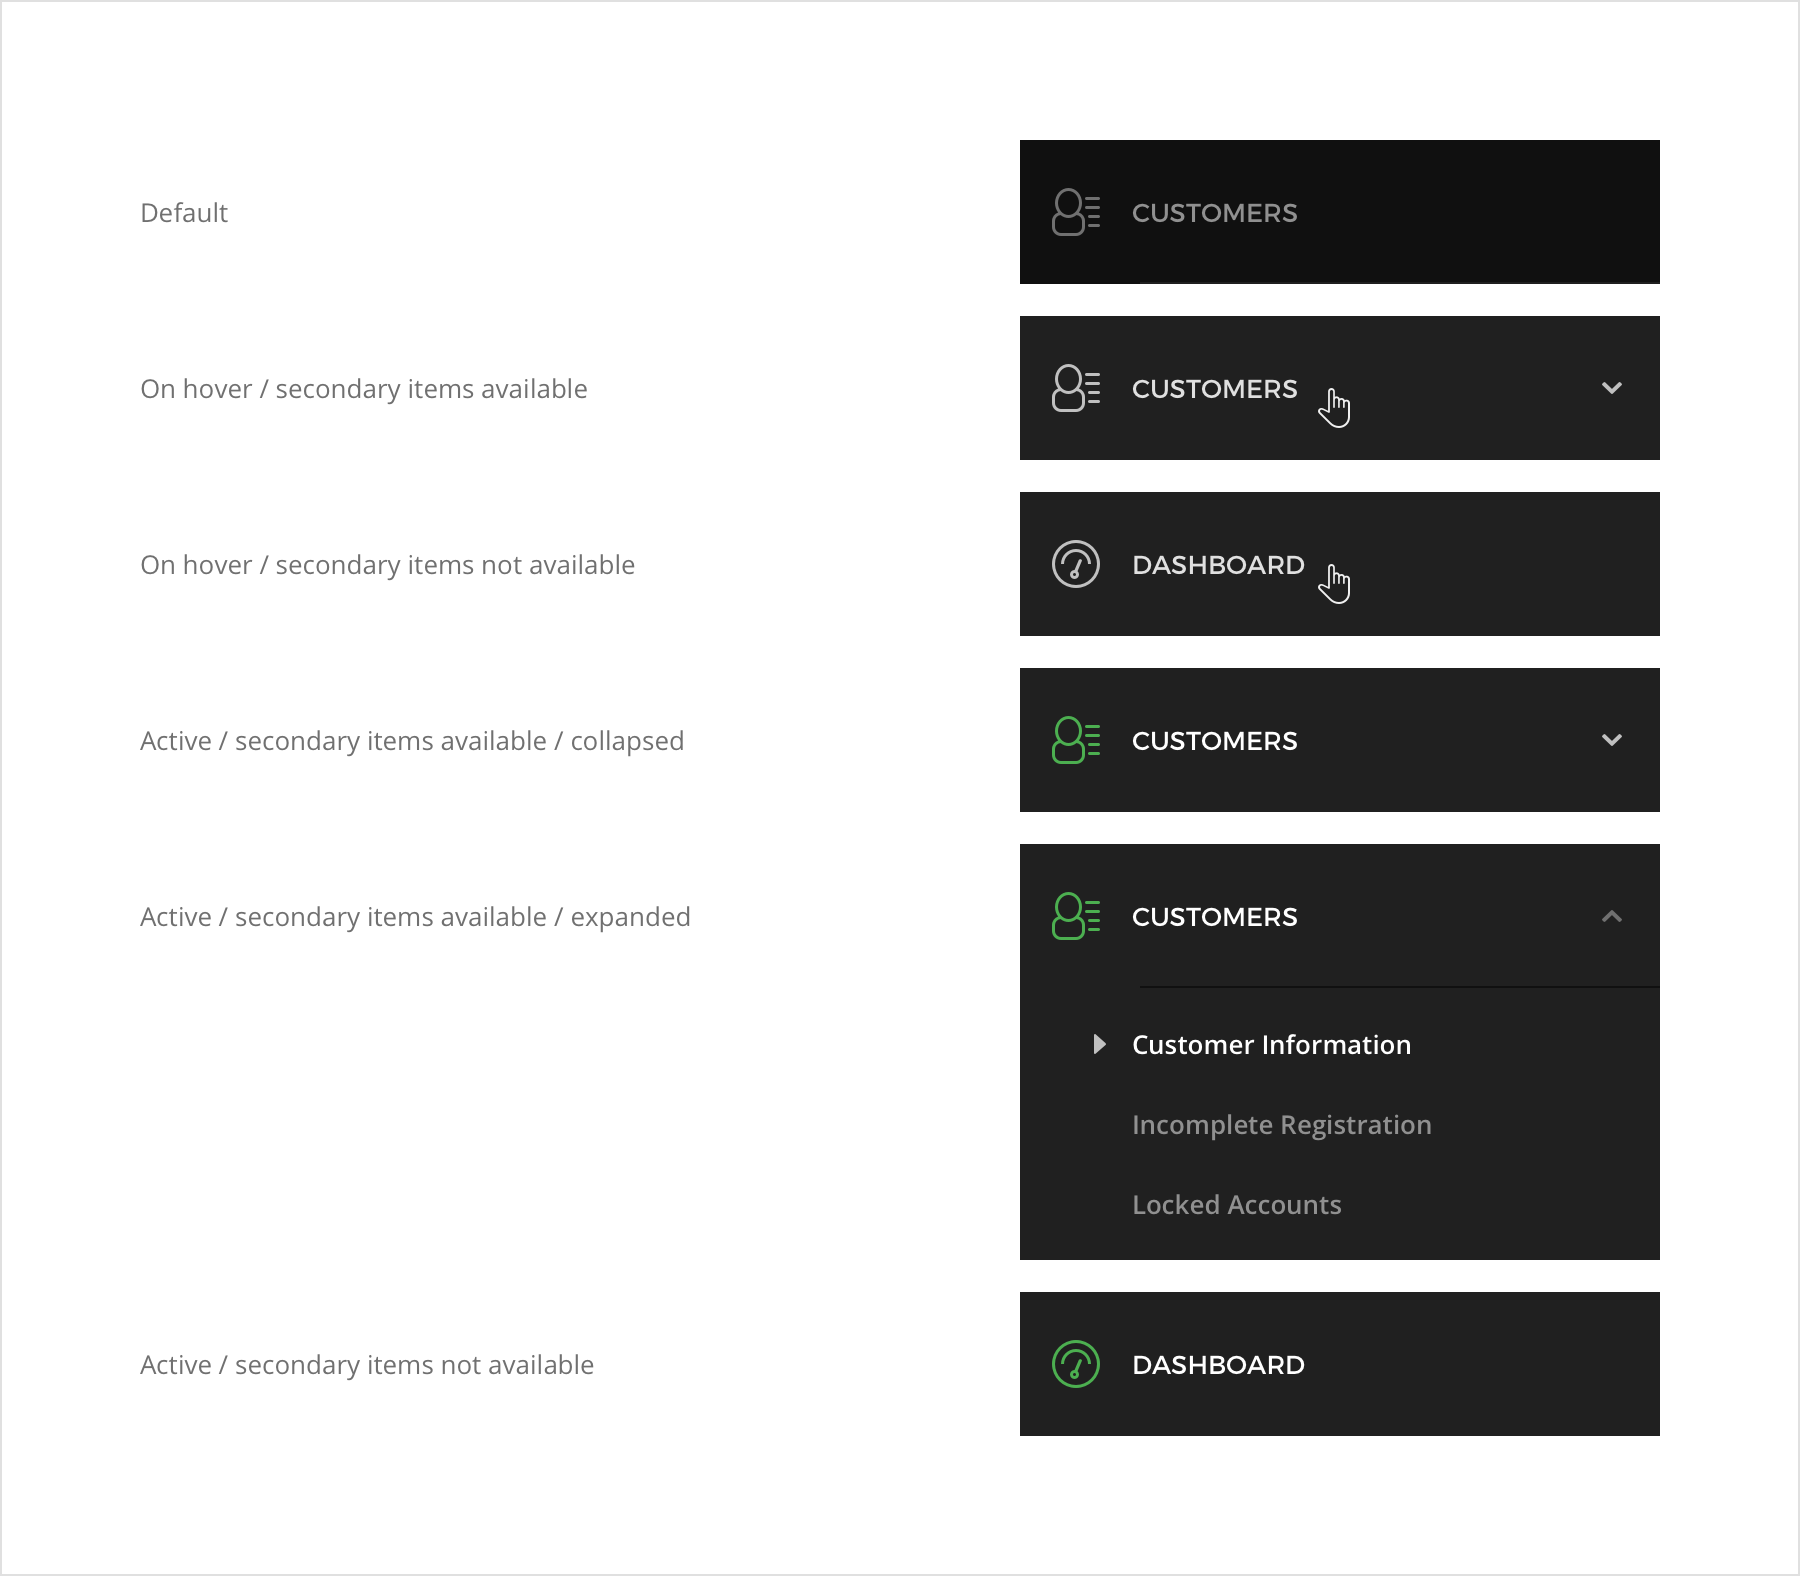
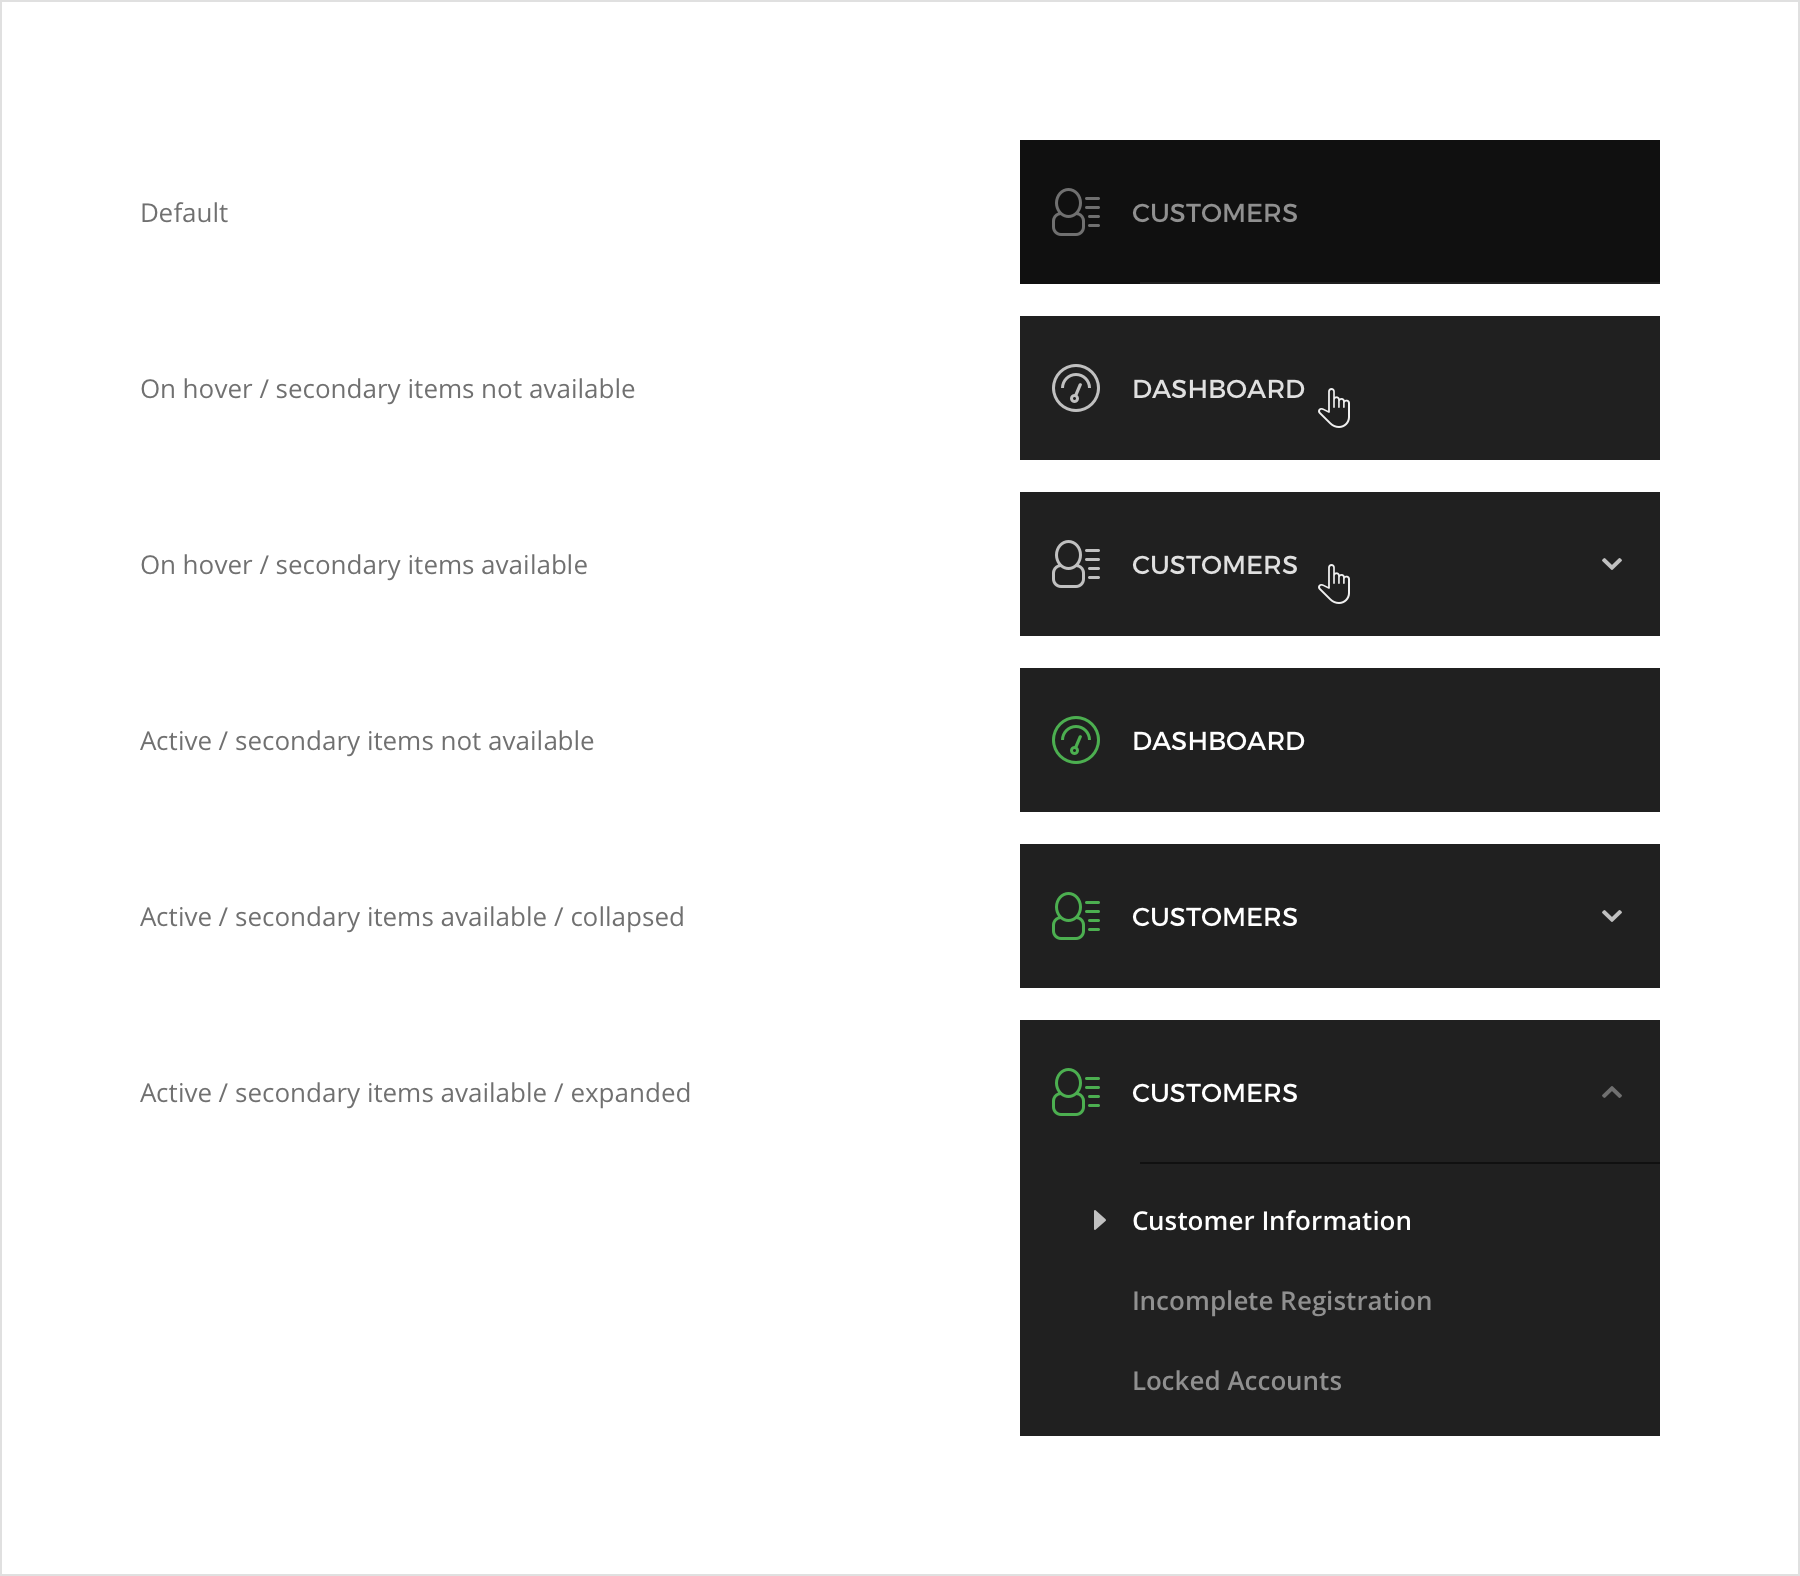
Updates sidebar.md
Auto commit by GitBook Editor

diff --git a/sidebar.md b/sidebar.md
@@ -86,6 +86,11 @@ color: $S500;
 
 Primary items represent main categories of the Back Office application.
 
+#### General guidelines {#spacing-guidelines}
+
+* When collapsed use Outline / down arrow icon.
+* When expanded use Outline / up arrow icon.
+* 
 ![](/assets/organisms/sidebar-primary-item-sizing.png)
 
 ```
@@ -126,7 +131,7 @@ font-family: Montserrat;
 font-size: 13px;
 text-transform: uppercase;
 
-/* Primary item arrow */
+/* Arrow */
 width: 16px;
 height: 16px;
 ```
@@ -138,14 +143,97 @@ height: 16px;
 ```
 /* Default */
 
-/* Primary item */
+/* Icon section */
 background-color: $B500;
 
-/* Primary item icon */
+/* Label section */
+background-color: $B500;
+border-bottom: 1px solid $B400;
+
+/* Icon */
 color: $B200;
 
-/* Primary item label */
+/* Label */
 color: $B100;
+
+/* Arrow */
+display: none;
+```
+
+```
+/* On hover / secondary items not available */
+
+/* Icon section */
+background-color: $B400;
+
+/* Label section */
+background-color: $B400;
+border-bottom: none;
+
+/* Icon */
+color: $S500;
+
+/* Label */
+color: $S300;
+```
+
+```
+/* On hover / secondary items available */
+
+/* Icon section */
+background-color: $B400;
+
+/* Label section */
+background-color: $B400;
+border-bottom: none;
+
+/* Icon */
+color: $S500;
+
+/* Label */
+color: $S300;
+
+/* Arrow */
+display: inline;
+color: $S500;
+```
+
+```
+/* Active / secondary items not available */
+
+/* Icon section */
+background-color: $B400;
+
+/* Label section */
+background-color: $B400;
+border-bottom: none;
+
+/* Icon */
+color: $G300;
+
+/* Label */
+color: $S300;
+```
+
+```
+/* Active / secondary items available */
+
+/* Icon section */
+background-color: $B400;
+
+/* Label section */
+background-color: $B400;
+border-bottom: none;
+
+/* Icon */
+color: $G300;
+
+/* Label */
+color: $S300;
+
+/* Arrow */
+display: inline;
+color: $B200;
 ```
 
 
